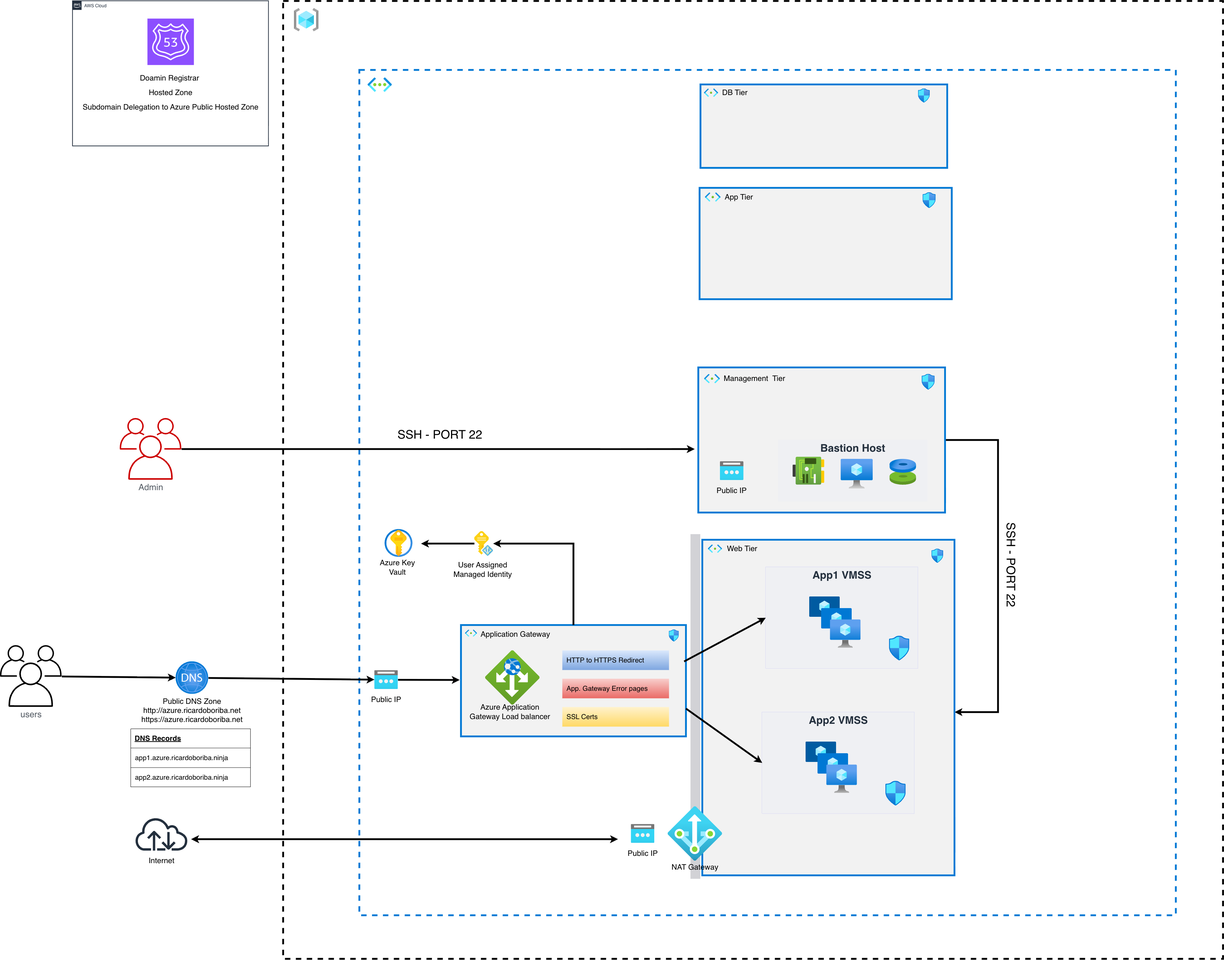
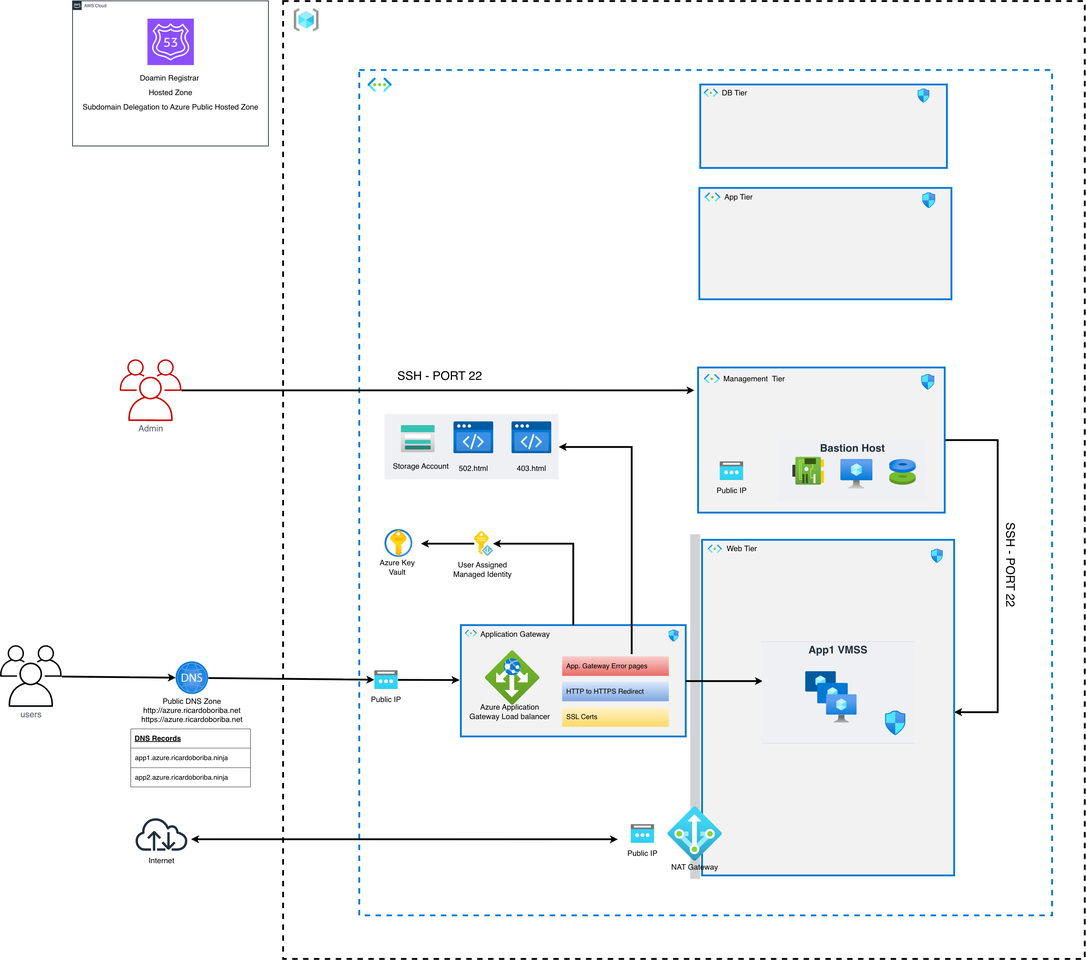
Documentation for project06 completed

diff --git a/05-Project06-ApplicationGateway-MySQL/README.md b/05-Project06-ApplicationGateway-MySQL/README.md
@@ -1,197 +1,134 @@
-# Azure Application Gateway with MySQL Database Backend Project
+# Azure Application Gateway with PostgreSQL Flexible Server
 
-This project demonstrates how to set up a complete three-tier Azure application architecture combining an Azure Application Gateway for secure traffic management, web servers for the presentation layer, and Azure Database for MySQL for persistent data storage. Terraform and bash scripts automate the deployment and configuration process.
+This project deploys a private three-tier-style Azure architecture with an Application Gateway, a Linux Virtual Machine Scale Set (VMSS), and Azure Database for PostgreSQL Flexible Server. Terraform and bash scripts provision the network, HTTPS gateway, private database connectivity, public DNS delegation, static error pages, outbound NAT, and a Linux management host.
 
-The solution provisions a complete networking foundation with dedicated networking segments for web, application, database, and management workloads. The deployed workload consists of multiple Linux web servers running Apache HTTP Server with application logic managed by an Azure Application Gateway, connected to an Azure Database for MySQL instance for data persistence. The Application Gateway provides SSL/TLS termination, secure HTTPS communication, and intelligent routing while isolating the database from direct internet exposure.
+The current Terraform configuration contains **one VMSS resource with two instances**. The instances run Ubuntu 22.04 and host the web workload in the Web Subnet. The VMSS custom data receives the PostgreSQL server FQDN, database name, administrator username, and password so the deployed web configuration can connect to the database.
 
-The architecture provides a production-ready three-tier design pattern with proper network segmentation, SSL/TLS encryption, secure database connectivity, and Web Application Firewall protection. Administrative access to private resources is supported through Azure Bastion, maintaining a security perimeter where only the Application Gateway is exposed to the internet while web servers and the MySQL database remain fully protected in private subnets.
-
-Overall, the project demonstrates how Terraform can be used to build an enterprise-ready Azure infrastructure that combines networking, compute, advanced load balancing, security features, data persistence, and secure administration concepts for a complete application stack.
+The Application Gateway uses the Basic SKU with capacity `2`. HTTP requests on port `80` are permanently redirected to HTTPS on port `443`. TLS is terminated with the certificate imported into Azure Key Vault and accessed through a user-assigned managed identity. Custom `403.html` and `502.html` pages are hosted through the Storage Account static website endpoint.
 
 # Architecture solution
 
-In this section we provide a visual representation of the architecture solution, illustrating the various components and their interactions within the Azure environment.
+The deployment uses one Azure virtual network with dedicated subnets for the Application Gateway, web workload, future application services, PostgreSQL, and management. The PostgreSQL subnet is delegated to `Microsoft.DBforPostgreSQL/flexibleServers`, and its private DNS zone is linked to the virtual network. Public application DNS is hosted in Azure and delegated from AWS Route 53.
+
+![Azure Architecture Solution](./assets/azure-architecture-solutions-Project06.png)
 
 **Virtual Network:** `10.0.0.0/16`
 
-| Network Segment        | CIDR Block    | Purpose                                          |
-| ---------------------- | ------------- | ------------------------------------------------ |
-| **Gateway Subnet**     | `10.0.0.0/24` | Hosts the Application Gateway                    |
-| **Web Subnet**         | `10.0.1.0/24` | Hosts the backend web virtual machines           |
-| **Application Subnet** | `10.0.2.0/24` | Reserved for application-tier workloads          |
-| **Database Subnet**    | `10.0.3.0/24` | Hosts the Azure Database for MySQL               |
-| **Management Subnet**  | `10.0.4.0/24` | Used for administrative and management workloads |
-| **AzureBastionSubnet** | `10.0.5.0/27` | Dedicated subnet required by Azure Bastion       |
-
-```mermaid
-flowchart TB
-    Internet((Internet))
-
-    AppGWPublicIP["Public IP<br/>fin-dev-appgw-publicip"]
-    AppGW["Azure Application Gateway<br/>fin-dev-app-gateway<br/>SSL/TLS + WAF"]
-    WAF["Web Application Firewall<br/>OWASP Rules<br/>DDoS Protection"]
-
-    VNet["Azure Virtual Network<br/>fin-dev-vnet-default<br/>10.0.0.0/16"]
-
-    GatewaySubnet["Gateway Subnet<br/>fin-dev-vnet-default-gatewaysubnet<br/>10.0.0.0/24"]
-    WebSubnet["Web subnet<br/>fin-dev-vnet-default-websubnet<br/>10.0.1.0/24"]
-    AppSubnet["Application subnet<br/>fin-dev-vnet-default-appsubnet<br/>10.0.2.0/24"]
-    DBSubnet["Database subnet<br/>fin-dev-vnet-default-dbsubnet<br/>10.0.3.0/24"]
-    MgmtSubnet["Management subnet<br/>fin-dev-vnet-default-mgmtsubnet<br/>10.0.4.0/24"]
-    BastionSubnet["AzureBastionSubnet<br/>10.0.5.0/27"]
-
-    WebVM1["Ubuntu Web VM 1<br/>fin-dev-web-linuxvm-vm1<br/>Standard_DS1_v2"]
-    WebVM2["Ubuntu Web VM 2<br/>fin-dev-web-linuxvm-vm2<br/>Standard_DS1_v2"]
-
-    MySQL["Azure Database for MySQL<br/>fin-dev-mysql-server<br/>Managed Relational Database"]
-
-    ErrorPages["Custom Error Pages<br/>403.html, 502.html<br/>error.html, index.html"]
-
-    BastionVM["Bastion Host VM<br/>fin-dev-bastion-host-linuxvm<br/>Management Access"]
-    Bastion["Azure Bastion<br/>fin-dev-bastion-service"]
-    BastionPublicIP["Public IP<br/>fin-dev-bastion-public-ip"]
-
-    Internet --> AppGWPublicIP
-    AppGWPublicIP --> AppGW
-    AppGW --> WAF
-    WAF --> WebVM1
-    WAF --> WebVM2
-
-    VNet --> GatewaySubnet
-    VNet --> WebSubnet
-    VNet --> AppSubnet
-    VNet --> DBSubnet
-    VNet --> MgmtSubnet
-    VNet --> BastionSubnet
-
-    GatewaySubnet --> AppGW
-    WebSubnet --> WebVM1
-    WebSubnet --> WebVM2
-    DBSubnet --> MySQL
-
-    AppGW --> ErrorPages
-
-    BastionPublicIP --> Bastion
-    Bastion --> BastionSubnet
-    Bastion -. Administrative access .-> WebVM1
-    Bastion -. Administrative access .-> WebVM2
-    Bastion -. Database management .-> MySQL
-
-    MgmtSubnet --> BastionVM
-    BastionVM -. SSH access .-> Bastion
-```
+| Network Segment                | CIDR Block     | Purpose                                                                |
+| ------------------------------ | -------------- | ---------------------------------------------------------------------- |
+| **Application Gateway Subnet** | `10.0.51.0/24` | Hosts the Application Gateway                                          |
+| **Web Subnet**                 | `10.0.1.0/24`  | Hosts the two-instance App1 VMSS and receives NAT Gateway association  |
+| **Application Subnet**         | `10.0.2.0/24`  | Reserved for future application-tier workloads                         |
+| **Database Subnet**            | `10.0.3.0/24`  | Delegated to PostgreSQL Flexible Server and hosts the private database |
+| **Management Subnet**          | `10.0.4.0/24`  | Hosts the Bastion Host Linux VM                                        |
 
 # Data Flow
 
-In this section, we describe the data flow within the architecture, detailing how requests and responses traverse through the various components with security and database interactions.
+The request path uses Azure public DNS, HTTP-to-HTTPS redirection, Application Gateway TLS termination, and private forwarding to the VMSS. The web workload then connects to PostgreSQL through the private network and resolves the database using the VNet-linked private DNS zone.
 
 ```mermaid
 sequenceDiagram
     participant User as Internet User
-    participant AppGW as Azure Application Gateway
-    participant WAF as Web Application Firewall
-    participant WebVM as Backend Web VM
-    participant MySQL as Azure Database for MySQL
-    participant Admin as Administrator
-    participant Bastion as Azure Bastion
+    participant AWS as AWS Route 53
+    participant AzureDNS as Azure Public DNS
+    participant Gateway as Application Gateway
+    participant Identity as User-Assigned Identity
+    participant KV as Azure Key Vault
+    participant VMSS as App1 VMSS
+    participant PrivateDNS as Private DNS Zone
+    participant PostgreSQL as PostgreSQL Flexible Server
+    participant Storage as Storage Static Website
+    participant Admin as Bastion Host VM
 
-    User->>AppGW: HTTPS request to public IP
-    AppGW->>AppGW: TLS/SSL Termination
-    AppGW->>WAF: Evaluate WAF rules
-    alt Request Blocked by WAF
-        WAF->>AppGW: Block request
-        AppGW->>AppGW: Serve custom error page 403
-        AppGW->>User: Return 403 Forbidden with custom page
-    else Request Allowed
-        WAF->>AppGW: Allow request
-        AppGW->>AppGW: Evaluate routing rules
-        AppGW->>AppGW: HTTP health probe on backend
-        AppGW->>WebVM: Forward request to port 80
-        alt Backend Healthy
-            WebVM->>MySQL: Query database for application data
-            MySQL->>WebVM: Return query results
-            WebVM->>AppGW: Return web response with data
-            AppGW->>User: Return HTTPS response
-        else Backend Unhealthy
-            AppGW->>AppGW: Serve custom error page 502
-            AppGW->>User: Return 502 Bad Gateway with custom page
-        end
+    User->>AWS: Resolve azure.ricardoboriba.net
+    AWS-->>User: Delegate subdomain to Azure nameservers
+    User->>AzureDNS: Resolve azure.ricardoboriba.net
+    AzureDNS-->>User: Return Application Gateway public IP
+    User->>Gateway: HTTP request on port 80
+    Gateway-->>User: Permanent redirect to HTTPS:443
+    User->>Gateway: HTTPS request on port 443
+    Gateway->>Identity: Request Key Vault certificate access
+    Identity->>KV: Get my-cert-1 secret
+    KV-->>Gateway: Return certificate secret
+    Gateway->>Gateway: Terminate TLS
+    Gateway->>Gateway: Run HTTP health probe
+    Gateway->>VMSS: Forward HTTP request to port 80
+    VMSS->>PrivateDNS: Resolve PostgreSQL private hostname
+    PrivateDNS-->>VMSS: Return private database address
+    VMSS->>PostgreSQL: Query webappdb over private network
+    PostgreSQL-->>VMSS: Return query results
+    VMSS-->>Gateway: Return application response
+    Gateway-->>User: Return HTTPS response
+
+    alt Gateway error
+        Gateway->>Storage: Request 403.html or 502.html
+        Storage-->>Gateway: Return custom error page
+        Gateway-->>User: Return custom error response
     end
 
-    Admin->>Bastion: Connect through Azure portal
-    Bastion->>WebVM: SSH connection over private networking
-    WebVM->>Bastion: Administrative response
-    Admin->>Bastion: Proxy MySQL management connections
-    Bastion->>MySQL: Management protocol connection
+    Admin->>Admin: SSH to Bastion Host public IP
+    Admin->>VMSS: SSH over private network
+    Admin->>PostgreSQL: Private database administration
 ```
 
-1. A user sends an HTTPS request to the public IP address attached to the Azure Application Gateway.
-2. The Application Gateway terminates the SSL/TLS connection, decrypting the user's request.
-3. The Web Application Firewall evaluates the incoming request against OWASP protection rules.
-4. If the request is blocked by WAF, a custom 403 Forbidden error page is served.
-5. If the request passes WAF inspection, the Application Gateway evaluates configured routing rules.
-6. The gateway checks backend availability using HTTP health probes on port 80.
-7. If instances are healthy, the gateway forwards the request to the appropriate backend pool.
-8. The request is sent to one of the available backend web VMs:
-   - `fin-dev-web-linuxvm-vm1`
-   - `fin-dev-web-linuxvm-vm2`
-9. The web server application processes the request and queries the Azure Database for MySQL.
-10. MySQL executes the query and returns results back to the web server.
-11. The web server processes the data and generates an HTTP response.
-12. The response travels back through the Application Gateway to the client.
-13. The Application Gateway re-encrypts the response using TLS/SSL before sending it to the user.
-14. Administrators can securely connect to web servers through Azure Bastion over the private network.
-15. Administrators can manage the MySQL database through proxy connections via Azure Bastion, maintaining network isolation.
+1. AWS Route 53 delegates `azure.ricardoboriba.net` to the nameservers assigned to the Azure DNS zone.
+2. The Azure apex record `azure.ricardoboriba.net` resolves to the Application Gateway public IP.
+3. HTTP requests on port `80` are permanently redirected to HTTPS port `443`, preserving the path and query string.
+4. The Application Gateway uses its user-assigned managed identity to access the certificate secret in Key Vault.
+5. The gateway terminates TLS and checks the App1 backend with `/app1/status.html`, expecting body `App1` and status `200`.
+6. Healthy requests are forwarded over HTTP port `80` to the two-instance Ubuntu 22.04 VMSS.
+7. The VMSS resolves the PostgreSQL server through the private DNS zone linked to the VNet.
+8. The VMSS connects privately to the PostgreSQL Flexible Server and its `webappdb` database.
+9. PostgreSQL returns query results to the web workload, which generates the response.
+10. For configured `403` or `502` listener errors, the gateway retrieves the corresponding HTML page from the Storage Account static website endpoint.
+11. The NAT Gateway provides outbound internet access for the Web Subnet.
+12. Administrators use the Bastion Host Linux VM to reach the private VMSS and PostgreSQL server.
 
 ## Components of the Solution
 
-The environment is composed of several Azure services that work together to provide networking, advanced load balancing, security, compute, data persistence, and secure administration.
-
-| Component                          | Purpose                                                                                                                           |
-| ---------------------------------- | --------------------------------------------------------------------------------------------------------------------------------- |
-| **Azure Virtual Network**          | Provides the private network boundary for the environment and connects the different application tiers.                           |
-| **Gateway Subnet**                 | Dedicated subnet that hosts the Application Gateway and Web Application Firewall.                                                 |
-| **Web Subnet**                     | Hosts the Linux web servers that serve the application and interact with the database.                                            |
-| **Application Subnet**             | Reserved for future application-tier workloads and internal services.                                                             |
-| **Database Subnet**                | Hosts the Azure Database for MySQL and provides isolated connectivity for database resources.                                     |
-| **Management Subnet**              | Provides a dedicated network segment for administrative and management resources.                                                 |
-| **AzureBastionSubnet**             | Dedicated subnet required by the Azure Bastion managed service.                                                                   |
-| **Azure Application Gateway**      | Provides Layer 7 load balancing with SSL/TLS offloading, URL-based routing, and WAF integration.                                  |
-| **Web Application Firewall (WAF)** | Protects against common web vulnerabilities (OWASP Top 10), SQL injection, cross-site scripting, and DDoS attacks.                |
-| **Backend Pools**                  | Collections of web servers that receive traffic routed by the Application Gateway.                                                |
-| **HTTP Settings**                  | Define how the Application Gateway communicates with backend resources, including protocol, port, and health probe configuration. |
-| **Listeners**                      | Accept incoming traffic on specified protocols and ports with SSL/TLS certificates for HTTPS communication.                       |
-| **Routing Rules**                  | Map listeners to backend pools using URL paths, hostnames, or other criteria for intelligent request routing.                     |
-| **SSL/TLS Certificates**           | Enable HTTPS communication with the gateway handling encryption/decryption while backends communicate over HTTP.                  |
-| **Custom Error Pages**             | User-friendly HTML pages served when errors occur (403 Forbidden, 502 Bad Gateway, etc.) for improved user experience.            |
-| **Health Probes**                  | Continuously check the availability of backend servers so that traffic is sent only to healthy instances.                         |
-| **Azure Database for MySQL**       | Managed relational database providing persistent data storage, automated backups, and high availability for application data.     |
-| **Linux Virtual Machines**         | Run web server applications that process user requests and interact with the MySQL database.                                      |
-| **Public IP Address**              | Provides the public entry point for the Application Gateway.                                                                      |
-| **Network Security Groups**        | Control inbound and outbound network traffic for the different subnets and isolate database connectivity.                         |
-| **Azure Bastion**                  | Provides secure administrative access to private virtual machines and database proxy management without direct internet exposure. |
-| **Database Connectivity**          | Private network connectivity from web servers to the MySQL database backend with no public IP requirement.                        |
+| Component                          | Purpose                                                                                                 |
+| ---------------------------------- | ------------------------------------------------------------------------------------------------------- |
+| **Azure Virtual Network**          | Provides the `10.0.0.0/16` private network boundary.                                                    |
+| **Application Gateway Subnet**     | `10.0.51.0/24`; dedicated subnet for the Application Gateway.                                           |
+| **Web Subnet**                     | `10.0.1.0/24`; hosts the two-instance VMSS and is associated with the NAT Gateway.                      |
+| **Application Subnet**             | `10.0.2.0/24`; reserved for future application services.                                                |
+| **Database Subnet**                | `10.0.3.0/24`; delegated to `Microsoft.DBforPostgreSQL/flexibleServers`.                                |
+| **Management Subnet**              | `10.0.4.0/24`; hosts the Bastion Host Linux VM.                                                         |
+| **Azure Application Gateway**      | Basic SKU with capacity 2; redirects HTTP to HTTPS and terminates TLS on port 443.                      |
+| **HTTP Listener**                  | Listens on port 80 and permanently redirects requests to the HTTPS listener.                            |
+| **HTTPS Listener**                 | Listens on port 443 and uses the Key Vault certificate for TLS termination.                             |
+| **App1 Web VMSS**                  | One VMSS resource with two Ubuntu 22.04 instances.                                                      |
+| **Backend HTTP Settings**          | Forward requests to the VMSS over HTTP port 80 with a 60-second request timeout and no cookie affinity. |
+| **HTTP Health Probe**              | Checks `/app1/status.html` every 30 seconds and expects body `App1` with HTTP status `200`.             |
+| **Azure Key Vault**                | Stores the imported certificate used by the HTTPS listener.                                             |
+| **User-Assigned Managed Identity** | Attached to the Application Gateway and granted `Get` secret permission on Key Vault.                   |
+| **Storage Account**                | Enables static website hosting and stores custom HTML error pages.                                      |
+| **Static Website Container**       | Azure-managed `$web` container containing `index.html`, `error.html`, `403.html`, and `502.html`.       |
+| **Azure Public DNS Zone**          | Hosts `azure.ricardoboriba.net` and an apex A record targeting the Application Gateway public IP.       |
+| **AWS Route 53 Delegation**        | Creates the parent-zone NS record delegating `azure.ricardoboriba.net` to Azure DNS nameservers.        |
+| **Private DNS Zone**               | VNet-linked PostgreSQL zone used to resolve the private database endpoint.                              |
+| **PostgreSQL Flexible Server**     | Version 15, `B_Standard_B1ms`, private network access, 32 GiB storage, and seven-day backup retention.  |
+| **PostgreSQL Database**            | `webappdb`, created on the Flexible Server with UTF-8 encoding and `en_US.utf8` collation.              |
+| **NAT Gateway**                    | Provides outbound internet access for the Web Subnet through a dedicated public IP.                     |
+| **Bastion Host Linux VM**          | Ubuntu 22.04 management VM with a public IP for SSH access to private resources.                        |
+| **Network Security Groups**        | Filter traffic for the gateway, web, application, database, and management subnets and VMSS resources.  |
 
 ### Component Interaction
 
-At a high level, incoming HTTPS traffic reaches the **Azure Application Gateway**, which terminates the SSL/TLS connection. Traffic is then evaluated by the **Web Application Firewall** to protect against web attacks and vulnerabilities.
+Azure DNS hosts the public apex record for the delegated `azure` subdomain. AWS Route 53 remains authoritative for `ricardoboriba.net` and delegates the child zone through the NS record Terraform creates. Azure DNS then directs users to the Application Gateway public IP.
 
-If a request is blocked by WAF rules, a **Custom Error Page** (403 Forbidden) is served. If the request passes WAF inspection, the Application Gateway evaluates **Routing Rules** and forwards traffic to the **Backend Pools** (web servers).
+The Application Gateway accepts HTTP and HTTPS on separate frontend ports. HTTP requests are redirected permanently to HTTPS. The HTTPS listener references the Key Vault certificate through its secret ID and uses the attached user-assigned identity to retrieve the certificate secret.
 
-Web servers process requests and interact with **Azure Database for MySQL** over private network connections for data retrieval and storage. The database remains completely isolated from internet exposure, accessible only from within the virtual network and via **Azure Bastion** for administrative purposes.
+The Key Vault uses access policies rather than Azure RBAC. The current deployment identity receives the permissions required to import the certificate, while the Application Gateway identity receives only `Get` permission for secrets. The certificate is imported from `/etc/ssl/httpd.pfx`, and its password is supplied through the sensitive `password_httpd_ssl_pfx` variable.
 
-The **Health Probes** verify backend availability. If all backends are unhealthy, the gateway serves a custom **Error Page** (502 Bad Gateway). **HTTP Settings** define communication parameters between the gateway and backends.
+The Storage Account static website hosts the HTML files used for custom gateway error responses. This provides error-page hosting and is not WAF functionality: no WAF policy is deployed in this project.
 
-Administrative access is provided through **Azure Bastion**, which enables secure management of both web servers and the MySQL database without requiring public IP addresses. **Network Security Groups** provide traffic filtering between network segments, creating a security boundary where only the Application Gateway is internet-facing.
-
-The application and additional application-tier services are reserved for future workloads, allowing the environment to evolve into a complete multi-tier architecture without redesigning the underlying network.
+The PostgreSQL Flexible Server is deployed with `public_network_access_enabled = false` into the delegated Database Subnet. Its private DNS zone is linked to the VNet, allowing the VMSS to resolve and access the database without a public endpoint. The web VMSS receives the database connection values through its custom data template.
 
 # Conclusion
 
-Project `05-Project06-ApplicationGateway-MySQL` extends the Azure Application Gateway foundation by adding a complete three-tier architecture with a managed MySQL database backend for persistent data storage.
+Project `05-Project06-ApplicationGateway-MySQL` is a private three-tier-style architecture built around Azure Application Gateway, one two-instance Linux VMSS, and Azure Database for PostgreSQL Flexible Server. The directory name and historical project title mention MySQL, but the current Terraform resources use PostgreSQL throughout.
 
-The solution provisions an Application Gateway with integrated WAF in the 10.0.0.0/24 gateway subnet, multiple Ubuntu 22.04 Linux web servers in the 10.0.1.0/24 web subnet, and an Azure Database for MySQL in the 10.0.3.0/24 database subnet. The Application Gateway exposes the application through HTTPS with SSL/TLS termination while maintaining network isolation for backend resources.
+The deployment includes an Application Gateway in the `10.0.51.0/24` subnet, one App1 VMSS resource with two Ubuntu 22.04 instances in the `10.0.1.0/24` Web Subnet, HTTP-to-HTTPS redirection, TLS termination on port `443`, Key Vault certificate retrieval through a user-assigned identity, Azure public DNS, AWS Route 53 delegation, and custom gateway error pages.
 
-The broader `10.0.0.0/16` virtual network is divided into dedicated gateway, web, application, database, management, and Azure Bastion subnets. Web servers communicate with the MySQL database over private network connections, ensuring no database exposure to the internet.
-
-This project demonstrates a production-ready enterprise architecture for complex multi-tier applications on Azure, combining secure user-facing connectivity through Application Gateway, WAF protection, and reliable data persistence through Azure Database for MySQL. The architecture provides high availability, security through network isolation and encryption, and simplified database management through Azure's managed service offering. The complete separation of tiers—with only the gateway exposed publicly—provides defense-in-depth security. The application subnet remains provisioned as an architectural placeholder for future microservices, caching layers, or additional business logic components, enabling evolution into a sophisticated multi-tier, enterprise-grade solution.
+The database tier uses a PostgreSQL Flexible Server version `15` with private network access disabled, a delegated `10.0.3.0/24` Database Subnet, a VNet-linked private DNS zone, and the `webappdb` database.
